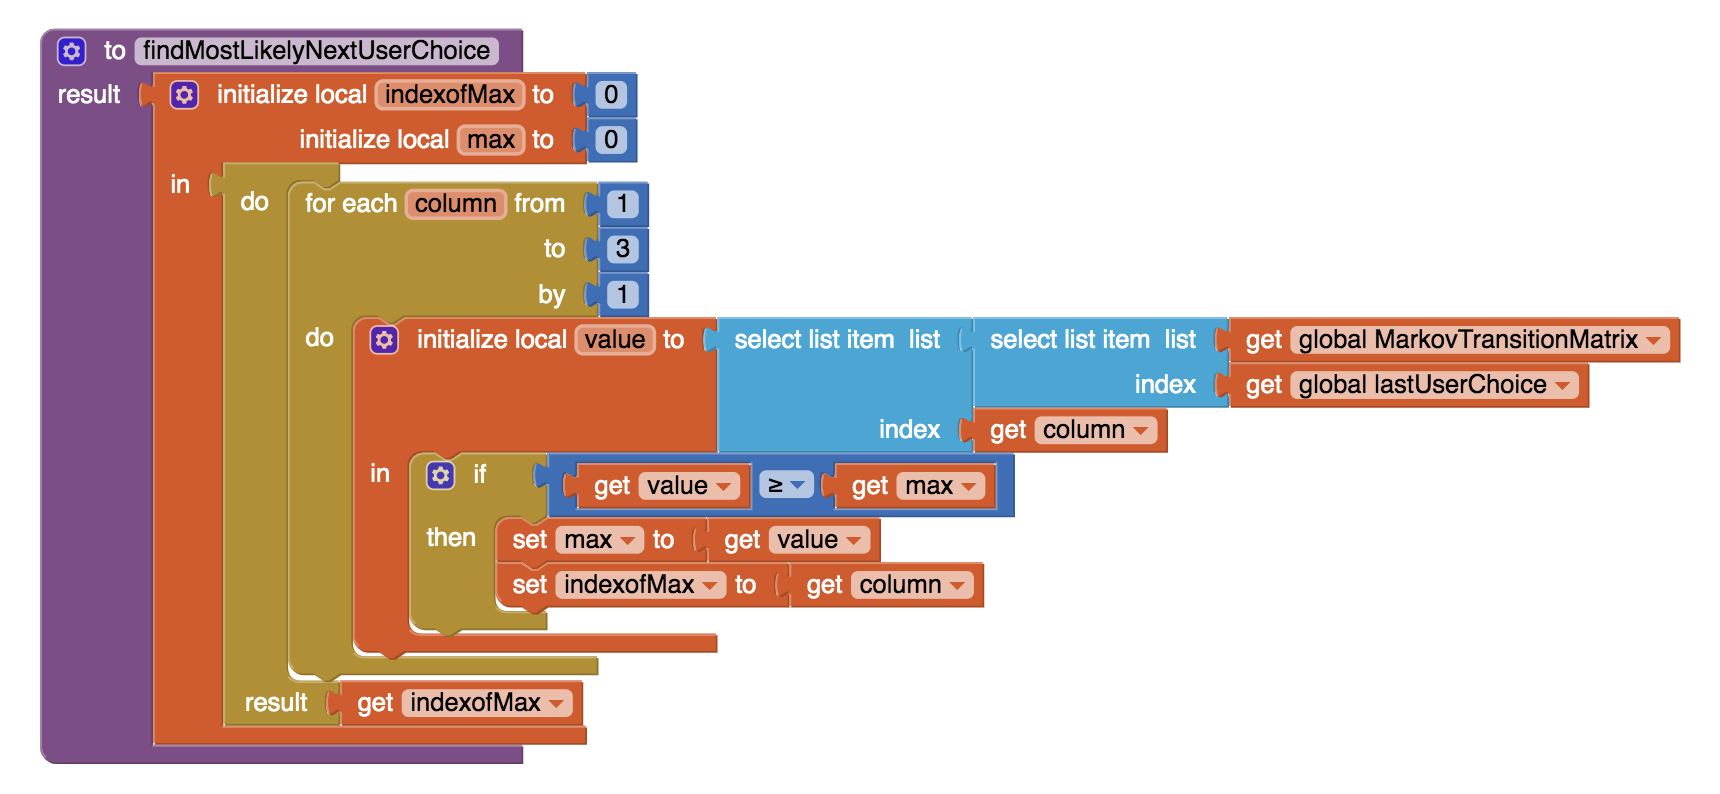
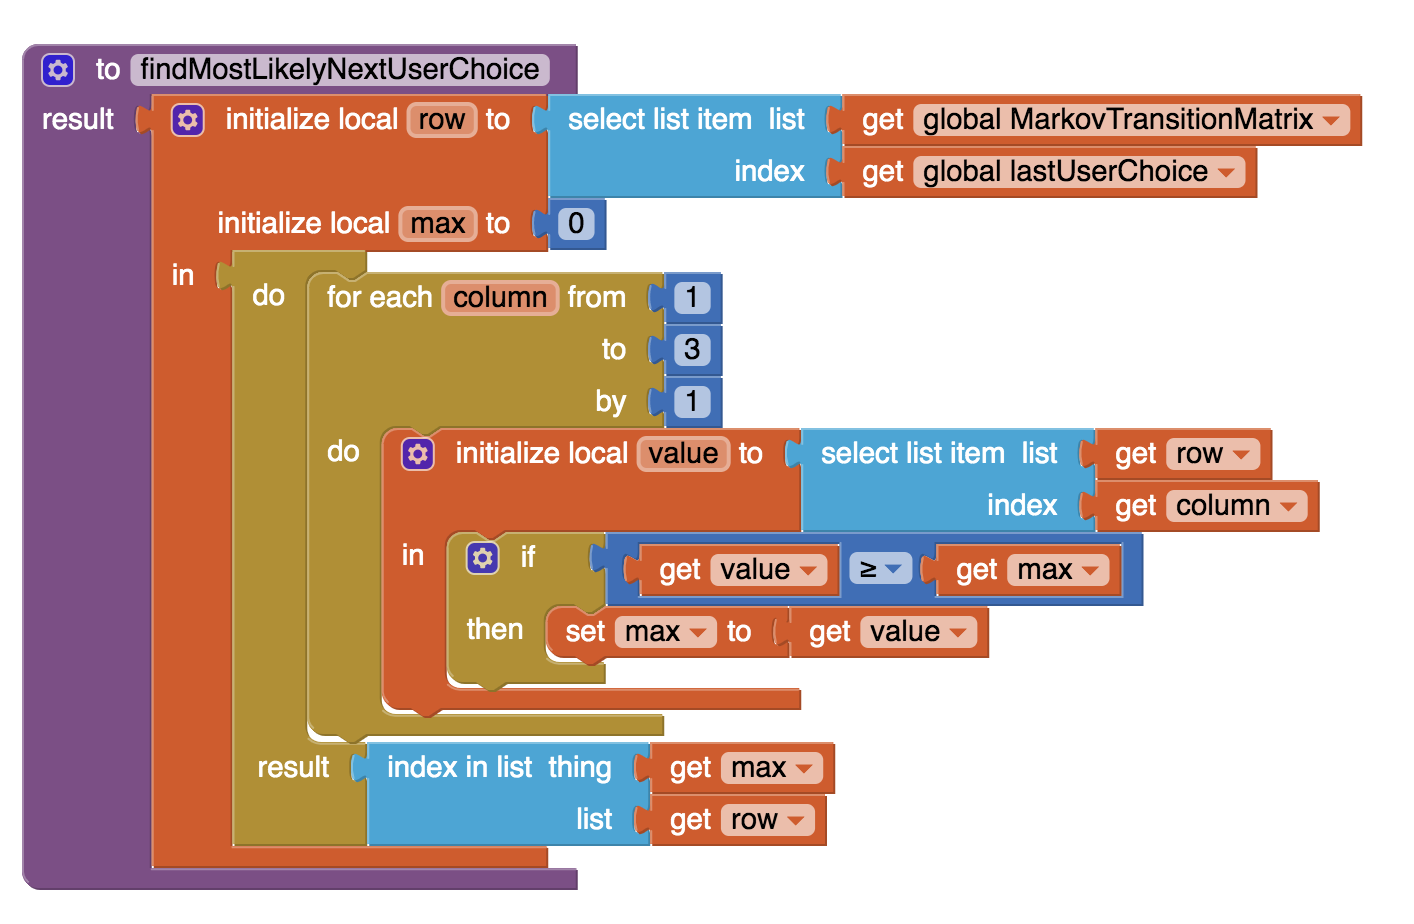
Edits based on Karen's feedback

diff --git a/yr/tutorials/rock-paper-scissors-withAI.html b/yr/tutorials/rock-paper-scissors-withAI.html
@@ -62,7 +62,7 @@
     <div>
       <p>Put here a challenge statement based on an associated YR story</p>
 
-      <p>Click "Connect Your App" below to start building your app!</p>
+      <p>Click "Connect Your App" below to start building your app or go directly to the Rock-Paper-Scissors with AI tutorial below.</p>
     </div>
 
     <h3>Connect Your App</h3>
@@ -77,9 +77,25 @@
         <h3>Introduction</h3>
         <p>In this project you will catch a glimpse into how is it possible to program a machine to learn from its experiences and make "informed" decisions exhibiting intelligence.  You will implement a Rock-Paper-Scissors game on your mobile device in which a user can play against the machine.  The machine will keep track of the choices of the user and if a pattern emerges in the sequence of choices made by the user, the machine will exploit this knowledge to beat the user. 
     </p>
+    	<div class="hintContainer">
+                <button>Rules of the Rock-Paper-Scissors game</button>
+                <div class="hint hideHint">
+					It is a two-person game in which each player simultaneously reveal their choices using hand gestures as shown below.  The winner of a round is determined by the following  rules:
+					<ul>
+						<li>Rock beats Scissors</li>
+						<li>Scissors beat Paper</li>
+						<li>Paper beat Rock</li>
+					</ul>
+					For more information, you can view the <a href="https://en.wikipedia.org/wiki/Rock_paper_scissors" target="_blank">Wikipedia entry for the game</a>.
+				</div>
+			</div>
         
         <img class="enlargeImage" src="../images/rps_withAI/RPS.png" alt="some_text">
         <p>You can click on the images to enlarge them and click and drag the top frame of the enlarged images to move them around as needed.</p>
+
+        
+        
+
 
     	</div>
 
@@ -169,7 +185,7 @@
           <h3>Practice with Markov Matrix</h3>
           <p>Suppose the game just started and the Matrix is as shown:</p>
           <img  src="../images/rps_withAI/Markov1.png" style="width:75%" alt="some_text">
-          <p>Supposed then the following sequence of choices is made by the user:</p>
+          <p>Suppose then the following sequence of choices is made by the user:</p>
 			<p>Rock, Scissors, Scissors, Paper</p>
 
 			<p>What would the Markov Matrix look like at that point in the game?</p>
@@ -222,38 +238,55 @@
 
       <div class="tutorialContentPage">
         <h3>Initializations</h3>
-        	<ul>
+        	<ol>
         	<li>Create a variable called <var>choices</var> which will eventually contain the list of possible choices (<var>ROCK, PAPER, SCISSORS</var>) and for now initialize it to an empty list.</li>
 			<li>Create a variable called <var>beatingChoices</var> which will eventually contain the list of possible beating choices (<var>PAPER, SCISSORS, ROCK</var>) and for now initialize it to an empty list.  The order given is so as: Paper beats Rock, Scissors beats Paper and Rock beats Scissors.</li>
 			<img src="../images/rps_withAI/choicesVSbeatingChoices.png" style="width:100%" alt="some_text">
 			<li>Create variables <var>ROCK</var>, <var>PAPER</var> and <var>SCISSORS</var> and initialize them to the numbers 1,2 and 3 respectively.  Assigning numbers to the choices will allow you to easily navigate indices of various lists and update the Markov Matrix at the end of each round of the game.</li>
-			</ul>
+			</ol>
+			<div class="hintContainer">
+   
+                <button>Check your solution</button>
+                <div class="hint hideHint">
+                	
+                  <img class="enlargeImage" src="../images/rps_withAI/initializations1.png" alt="some_text">
+              </div>
+          </div>
 		</div>
 
 		<div class="tutorialContentPage">
         <h3>Initializations</h3>
-        	<ul>
-			<li>Create a variable called <var>choicesInWords</var> and initialize it to hold a list containing the words "ROCK", "PAPER" and "SCISSORS" (without quotes).  Please note that "ROCK" is a string of characters whereas <var>ROCK</var> is a variable that holds the numerical value 1.  Similar for others choices.</li>
+        	<ol start="4">
+			<li>Create a variable called <var>choicesInWords</var> and initialize it to hold a list containing the words "ROCK", "PAPER" and "SCISSORS" (without quotes).  Please note that "ROCK" is a string of characters whereas <var>ROCK</var> is a variable that holds the numerical value 1.  Similar for other choices.</li>
 			<li>Create a variable called <var>buttonChoices</var> and initialize it to hold a list of the button components that the user can press: <strong>RockButton</strong>, <strong>PaperButton</strong> and <strong>ScissorsButton</strong>.  (Review the names of the GUI elements if you need to remind yourself these names.)  Note that these are not the words "RockButton", etc. but rather the actual components <strong>RockButton</strong>, etc.</li>
 			<img  src="../images/rps_withAI/RockButtonBlock.png" style="width:75%" alt="some_text">
 
-		</ul>
+		</ol>
+
+			<div class="hintContainer">
+   
+                <button>Check your solution</button>
+                <div class="hint hideHint">
+                	
+                  <img class="enlargeImage" src="../images/rps_withAI/initializations2.png" alt="some_text">
+              </div>
+          </div>
 	</div>
 
 	<div class="tutorialContentPage">
         <h3>Initializations</h3>
-        	<ul>
+        	<ol start="6">
 			<li>Create a variable called <var>imageChoices</var> and initialize it to hold a list of the names of the PNG images stored as Media files: "rock.png", "paper.png", "scissors.png".</li>
 			<li>Create a variable called <var>MarkovTransitionMatrix</var> and initialize it to an empty list.  You will later create a procedure to make this variable hold a list of lists.</li>
 			<li>Create two variables called <var>lastUserChoice</var> and <var>currentUserChoice</var> which will keep track of the last two consecutive choices made by the user and initialize them to zero.</li>
-        	</ul>
+        	</ol>
 
         	<div class="hintContainer">
    
                 <button>Check your solution</button>
                 <div class="hint hideHint">
                 	
-                  <img class="enlargeImage" src="../images/rps_withAI/initializations.png" alt="some_text">
+                  <img class="enlargeImage" src="../images/rps_withAI/initializations3.png" alt="some_text">
               </div>
           </div>
 
@@ -312,24 +345,24 @@
 
       <div class="tutorialContentPage">
         <h3>Screen1 Initialization</h3>
-          <p>When the Screen1 initializes:
-          	<ul>
+          <p>When Screen1 initializes:
+          	<ol>
 			<li>call the procedure <strong><var>initializeMarkovMatrix</var></strong>;</li>
 			<li>set the variable <var>choices</var> to the list containing the variables <var>ROCK</var>, <var>PAPER</var> and <var>SCISSORS</var> (in this order).  (Remember that these variables hold the values 1,2, and 3 respectively);</li>
 			<li>set the variable <var>beatingChoices</var> to the list containing the variables <var>PAPER</var>, <var>SCISSORS</var> and <var>ROCK</var> (in this order);</li>
 			<img src="../images/rps_withAI/choicesVSbeatingChoices.png" style="width:100%" alt="some_text">
-			</ul>
-			<p>Continued at the next page...</p>
+			</ol>
+			<p>Continued on the next page...</p>
 		</p>
 	</div>
 
 		<div class="tutorialContentPage">
         <h3>Screen1 Initialization</h3>
-          <p>When the Screen1 initializes:
-          	<ul>
+          <p>When Screen1 initializes:
+          	<ol start="4">
 			<li>set the variable <var>lastUserChoice</var> to the variable <var>ROCK</var>.  Note that this choice is completely arbitrary and allows the Markov Matrix to be built immediately following the first choice made by the user instead of waiting two rounds, which leads to a slightly more complex programming code;</li>
 			<li>set the variable <var>currentUserChoice</var> to zero.  This is done to initialize this variable to a value different than 1,2,3 (<var>ROCK, PAPER, SCISSORS</var> respectively).</li>
-		</ul>
+		</ol>
 		</p>
 		<p>Do this coding on your own. If you get stuck and would like some hints, click on the hint button below.</p>
 		<div class="hintContainer">
@@ -390,9 +423,25 @@
 
       </div>
 
+<div class="tutorialContentPage">
+        <h3>randomChoice and smartChoice</h3>
+        <p>Create two procedures with a return value as blocks but leave them blank without any code for now.  The first procedure, <strong><var>randomChoice</var></strong>,  will have the computer randomly make a choice of <var>ROCK</var>, <var>PAPER</var> or <var>SCISSORS</var>  (at the start of the game) and the second procedure, <strong><var>smartChoice</var></strong>, will make an "informed" choice after studying the Markov Matrix.  You will fill in the code for these procedures later in the tutorial.</p>
+
+            <p>For creating a procedure with a return value choose the one on the right.</p>
+            <img class="enlargeImage" src="../images/rps_withAI/procedureTypes.png" alt="some_text">
+
+</div>   
+<div class="tutorialContentPage">
+  <h3>update procedures</h3>
+  <p>Create two procedures <em>without</em> a return value as blocks but leave them blank without any code for now.  The first procedure, <strong><var>updateWinnerScore</var></strong>, will increment the score of the winner of a given round of the game.  The second procedure, <strong><var>updateMatrix</var></strong>, will update the Markov Matrix at the end of each round of the game.</p>
+
+  <p>For creating a procedure <em>without</em> a return value choose the one on the left.</p>
+            <img class="enlargeImage" src="../images/rps_withAI/procedureTypes2.png" alt="some_text">
+</div>     
 
 <div class="tutorialContentPage">
         <h3>User Choice Buttons</h3>
+        <p>You will now handle the <strong>RockButton</strong>, <strong>PaperButton</strong> and <strong>ScissorsButton</strong> click events. Since they all behave the same way, it makes sense to use the Any Component feature of App Inventor.</p>
         <p>When any Button is clicked by the user: </p>
         <div class="hintContainer">
             <button>Give me a hint</button>
@@ -401,28 +450,17 @@
           </div>
       </div>
       <ul>
-      	<li>make sure the button click has <em>not</em> already been handled which would be the case if it was the ResetButton (as you dealt with that event already) thus the clicked button should be one of the three user choice buttons: <strong>RockButton</strong>, <strong>PaperButton</strong> or <strong>ScissorsButton</strong>;</li>
-		<li>set <var>currentUserChoice</var> variable to the appropriate value indicated by the button the user has pressed.</li> 
+      	<li>You already handled the <strong>ResetButton</strong> click event, so deal only with button clicks <em>not already handled</em>;</li>
+		
 		<li>if <var>currentUserChoice</var> is zero (which means that this is the start of the game)
 			<ul>
-				<li>set <var>currentComputerChoice</var> to the value returned by a procedure called <strong><var>randomChoice</var></strong>;</li>
-				<li>else set <var>currentComputerChoice</var> to the value returned by a procedure called <strong><var>smartChoice</var></strong>;</li>
-
-				<div class="hintContainer">
-            		<button>More Info</button>
-            			<div class="hint hideHint">
-
-						<p>Create these procedures as blocks but leave them blank without any code for now.  The first procedure will have the computer randomly make a choice of <var>ROCK</var>, <var>PAPER</var> or <var>SCISSORS</var>  (at the start of the game) and the second procedure will make an "informed" choice after studying the Markov Matrix.  You will fill in the code for these procedures later in the tutorial.</p>
-
-						<p>For creating a procedure with a return value choose the one on the right.</p>
-						<img class="enlargeImage" src="../images/rps_withAI/procedureTypes.png" alt="some_text">
-					</div>
-				</div>
+				<li>set <var>currentComputerChoice</var> to the value returned by the procedure <strong><var>randomChoice</var></strong>;</li>
+				<li>else set <var>currentComputerChoice</var> to the value returned by the procedure <strong><var>smartChoice</var></strong>;</li>
 			</ul>
 				
 				</li>
 			</ul>
-			<p>Continued at the next page ...</p>
+			<p>Continued on the next page ...</p>
 		</div>
 
 
@@ -431,8 +469,9 @@
         <p>When any Button is clicked by the user: </p>
         <ul>
 		<li>set the <strong>ComputerChoiceImage</strong> picture and <strong>ComputerChoiceLabel</strong> text appropriately;</li>
-		<li>call a procedure (without a return value) named <strong><var>updateWinnerScore</var></strong> which will increment the score of the winner of a given round of the game.  Again, create this procedure but leave it blank for now. </li>
-		<li>call a procedure (without a return value) named <strong><var>updateMatrix</var></strong>.  Again, create this procedure but leave it blank for now.</li>
+    <li>set <var>currentUserChoice</var> variable according to the button the user has pressed.  We set this variable only now after the computer makes it choice because the computer cannot make its decision based on what the user just chose -it would be cheating- but only based on the user's past choices.</li>
+		<li>call the procedure (without a return value) <strong><var>updateWinnerScore</var></strong> which will increment the score of the winner of a given round of the game.</li> 
+		<li>call the procedure (without a return value) <strong><var>updateMatrix</var></strong> to update the Markov Matrix.</li>
 		<li>finally set <var>lastUserChoice</var> to <var>currentUserChoice</var> so that the game is ready for the next round.</li>
       </ul>
       <p>Do this coding on your own. If you get stuck and would like some hints, click on the hint button below.</p>
@@ -560,7 +599,7 @@
 
         <p>Define the procedure <strong><var>updateMatrix</var></strong> as follows:
         	<ul>
-				<li>Increment the value in the Markov Matrix cell with row and column defined by <var>lastUserChoice</var> and <var>currentUserChoice</var>, respectively.  So, based on the last two consecutive choices of the user you will increment the frequency of the particular pair of choices stored in the appropriate Matrix cell.</li>
+				<li>increment the appropriate Markov Matrix cell by 1, based on <var>lastUserChoice</var> and <var>currentUserChoice</var> as row and column.</li>
 				<li>call the procedure <strong><var>printMatrix</var></strong> to ensure that the Matrix update is displayed in the app.</li>
 			</ul>
 
@@ -588,13 +627,13 @@
 
 	<div class="tutorialContentPage">
         <h3>Finding the Most Likely Next User Choice</h3>
-        <p>Finally, you will define the procedure <strong><var>findMostLikelyNextUserChoice</var></strong>.</p>
+        <p>Finally, you will define the procedure <strong><var>findMostLikelyNextUserChoice</var></strong> whose return value will be used as the index into <var>beatingChoices</var> in the <strong><var>smartChoice</var></strong> procedure.</p>
 
 			<p>Note that this procedure has to return a value i.e. the choice (<var>ROCK</var>, <var>PAPER</var>, <var>SCISSORS</var>: 1,2,3 respectively) that the computer estimates to be most likely to be made by the user.  Make sure that you choose the appropriate type of procedure block returning a result.</p>
 
-			<p>You need to look at the last choice made by the user (<var>ROCK</var>, <var>PAPER</var>, <var>SCISSORS</var>: 1,2,3 respectively) and then with this as the row index, you need to examine the appropriate row of the Markov Matrix to decide which column has the entry with the highest frequency stored in it.  For example, if the last choice made by the user was <var>PAPER</var> in a game then looking at the following Markov Matrix at that point in the game, you would examine the second row (in red) and you would return <var>SCISSORS</var> (i.e. the column index of 3, which has the largest value of 11 in that row) as the most likely user choice.</p>
+			<p>Look at the last choice made by the user (<var>ROCK</var>, <var>PAPER</var>, <var>SCISSORS</var>: 1,2,3 respectively) and then with this as the row index, you need to examine the appropriate row of the Markov Matrix to decide which column has the entry with the highest frequency stored in it.  For example, if the last choice made by the user was <var>PAPER</var>, you would examine the second row (in red) and you would return <var>SCISSORS</var> (i.e. the column index of 3, which has the largest value of 11 in that row) as the most likely user choice.</p>
 			<img src="../images/rps_withAI/Markov_rows.png" style="width: 75%" alt="some_text">
-			<p>Follow the steps described next.</p>
+			<p>Follow the steps described on the next page.</p>
 
     </div>
 
@@ -602,8 +641,10 @@
         <h3>Finding the Most Likely Next User Choice</h3>
         <p>Define the procedure (with a return value) <strong><var>findMostLikelyNextUserChoice</var></strong>:
         	<ul>
-        		<li>initialize two local variables called <var>max</var> and <var>indexofMax</var> where you will store the maximum value encountered in a given row and the column index of that maximum.  Initialize these local variables to 0.</li>
-				<li>Using the value stored in the <var>lastUserChoice</var> variable, identify the row of the Matrix to examine and do a maximum search along this row to find the entry with the largest value and update the variables <var>max</var> and  <var>indexofMax</var> as needed.  The column index of this largest entry (1,2 or 3 i.e. <var>ROCK</var>, <var>PAPER</var>, or <var>SCISSORS</var> respectively) is the value that the procedure must return.</li>
+        		<li>initialize a local variable <var>row</var> which will store (as a list) the row of the Markov Matrix determined by the <var>lastUserChoice</var>.</li>
+            <li>initialize a local variable <var>max</var> to 0. This will track the maximum value in the identified row.</li>
+            <li>do a maximum search along the <var>row</var> to find the entry with the largest value and update the variable <var>max</var> as needed.  </li>
+				    <li>use an appropriate list operation to find the index of the cell with the largest entry (column index: 1,2 or 3 i.e. <var>ROCK</var>, <var>PAPER</var>, or <var>SCISSORS</var> respectively) This index is the value that the procedure must return.</li>
 
         	</ul>
 
@@ -637,7 +678,12 @@
 				<li>the Markov Matrix updates correctly with each user click, recording the frequency of consecutive pairs of user choices;</li>
 				<li>the machine is able to randomly make a choice for the first round and thereafter is guided by the information available in the Markov Matrix and makes smart choices;</li>
 				<li>the user and computer scores update correctly;</li>
-				<li>Test that the machine responds appropriately if the user always makes the same choice, like, Rock, Rock, Rock, Rock,.....  For repeated user choices of Rock, does the machine quickly learn to respond with repeated choices of Paper?  Similarly test for the machine's response to user's repeated choices of Paper.  Does the machine quickly learn to respond to repeated Papers with repeated Scissors?  What happens when the user only chooses Scissors?</li>
+				<li>the machine responds appropriately if the user always makes the same choice, like, Rock, Rock, Rock,....
+					<ul>
+						<li>For repeated user choices of Rock, does the machine quickly learn to respond with repeated choices of Paper? </li>
+						<li>What happens when the user only chooses Paper or only chooses Scissors?</li>
+					</ul>
+				</li>
 			</ul>
         </p>
 
@@ -667,7 +713,13 @@
 				<li>Can you beat the machine using its own strategy?  That is, can you anticipate how the machine will try to beat you according to the current state of the Markov Matrix and use this knowledge in return to beat the machine at that round?  For example, if this is the Markov Matrix at some point in the game and, say, your last choice as the user was Rock,<br /><br />
 					<img src="../images/rps_withAI/Markov4.png" style="width: 75%" alt="some_text"><br />
 
-				then, the machine will anticipate your choosing Paper next (as the entry with 13 is the largest in the first row) and thus will try to beat you with a Scissors.  However, with this extra knowledge you can now "surprise" the machine by choosing Rock to beat the machine using its own strategy.  How far can you play this strategy?  Can you always beat the machine by looking at the Markov Matrix?  If you play this game in this manner for a long time, what do you expect will happen to the Markov Matrix?  Can you verify your hypothesis?</li>
+				then, the machine will anticipate your choosing Paper next (as the entry with 13 is the largest in the first row) and thus will try to beat you with a Scissors.  However, with this extra knowledge you can now "surprise" the machine by choosing Rock to beat the machine using its own strategy.  
+					<ul>
+					<li>How far can you play using this strategy?  </li>
+					<li>Can you always beat the machine by looking at the Markov Matrix?</li>
+					<li>If you play this game in this manner for a long time, what do you expect will happen to the Markov Matrix?  Can you verify your hypothesis?</li>
+					</ul>
+				</li>
 			</ul>
 
     </div>
@@ -688,9 +740,9 @@
       	<div class="tutorialContentPage">
 			  <strong>Further Explorations</strong>
          <ul>
-           <li>In case the user might forget her choice in a round of the game, create a label and an image showing her choice similar to (and next to) what is done in the GUI for showing the computer choice.</li>
-			<li>Create a button (perhaps instead of <strong>MarkovLabel</strong> that says "Markov Transition Matrix") to show and hide the Markov Matrix information so that the decision process of the machine can be hidden from the user.</li>
-			<li>What other machine learning schemes can you think of?  How would you implement these ideas?</li>
+           <li>In case the user might forget her choice in a round of the game, display the user’s choice next to the computer’s choice (label and image).</li>
+			<li>Create a button (perhaps instead of <strong>MarkovLabel</strong>) to show and hide the Markov Matrix information so that the decision process of the machine can be hidden from the user.</li>
+			<li>What other Machine Learning schemes can you think of?  How would you implement these ideas?</li>
 		</ul>
 		</div>
 
@@ -698,7 +750,7 @@
 		<strong>Further Explorations</strong>
 			<ul>
 			<li>The Machine Learning algorithm you implemented in this project is an example of a "classical" Artificial Intelligence algorithm (i.e. "classical" as in the sense of  "not modern").  It is domain specific (i.e. only applies to the Rock-Paper-Scissors game) and it implements a particular strategy for the game.  Do some research about Neural Networks to learn about more modern approaches to Machine Learning.  Pay special attention to the "supervised" versus "unsupervised" approaches to Machine Learning.</li>
-			<li>Watch the movie  <a href="https://youtu.be/8tq1C8spV_g" target="_blank">AlphaGo</a> which documents the amazing story of the machine learning algorithm <strong>AlphaGo</strong>, developed by Google's <strong>DeepMind</strong> team, that in 2016 managed to beat Lee Sedol, the world champion of the board game Go.  </li>
+			<li>Watch the movie  <a href="https://youtu.be/8tq1C8spV_g" target="_blank">AlphaGo</a> which documents the amazing story of the Machine Learning algorithm <strong>AlphaGo</strong>, developed by Google's <strong>DeepMind</strong> team, that in 2016 managed to beat Lee Sedol, the world champion of the board game Go.  </li>
 			<li>Do some research about <strong>AlphaGo Zero</strong>.  How is it different than and superior to <strong>AlphaGo</strong>?</li>
 
           </ul>
